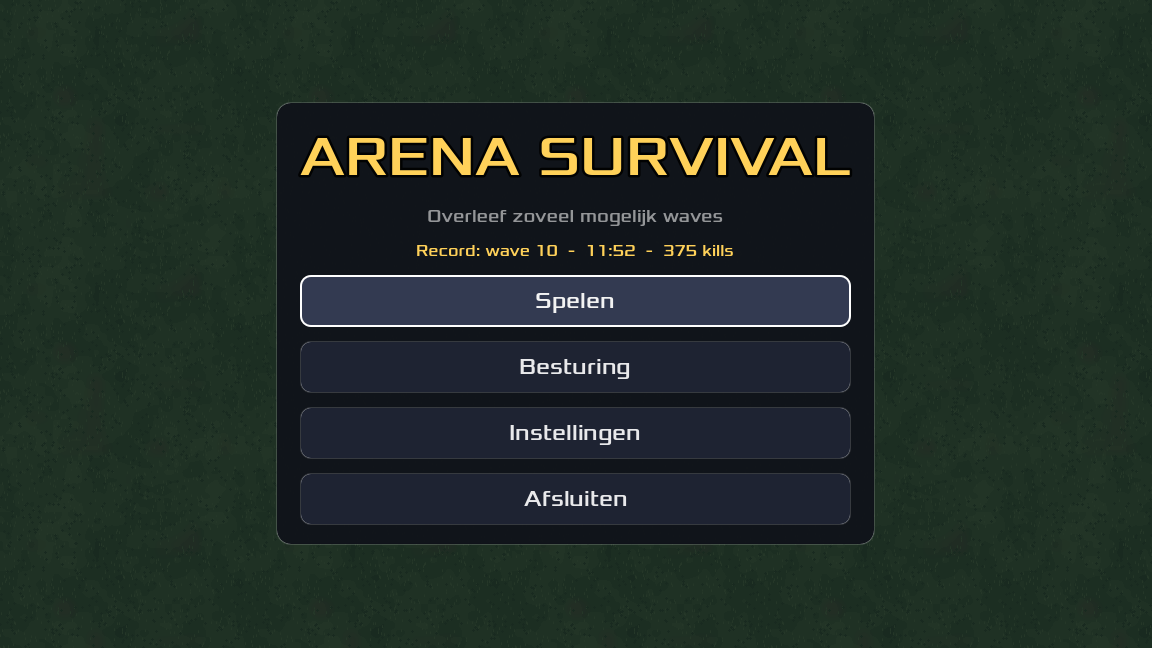
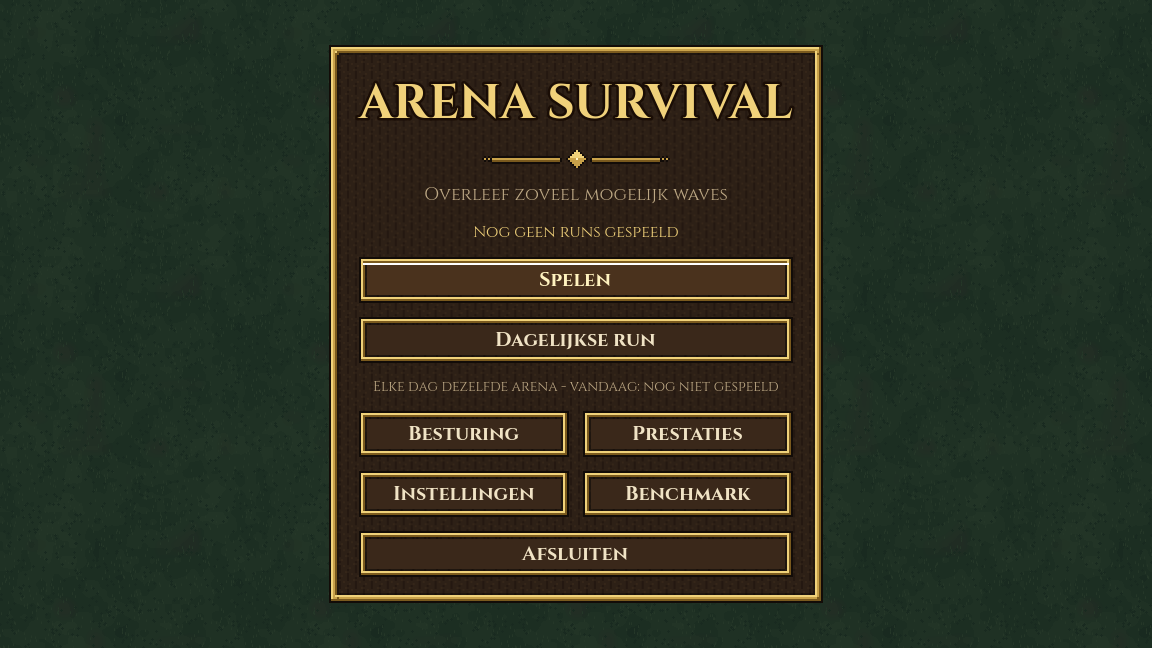
Versie 1.1

diff --git a/docs/proces/assets-herkomst.md b/docs/proces/assets-herkomst.md
@@ -1,0 +1,46 @@
+# Herkomst van assets
+
+Per bestand: waar het vandaan komt en onder welke voorwaarden het gebruikt mag worden.
+
+| Bestand(en) | Bron | Licentie of voorwaarden |
+|---|---|---|
+| `assets/art/player/held_walk.png`, `held_idle.png` | Zelf getekend met `tools/maak_sprites.py` | Eigen werk |
+| `assets/art/enemies/*.png` (negen vijanden) | Zelf getekend met `tools/maak_sprites.py` | Eigen werk |
+| `assets/art/bullet/bolt_00..29.png` | Zelf getekend met `tools/maak_sprites.py` | Eigen werk |
+| `assets/art/upgrades/*.svg` (iconen van de upgrades) | Zelf getekend met `tools/maak_upgrade_iconen.py` | Eigen werk |
+| `assets/art/floor/decoratie.png` (16 motieven: bloemen, gras, varen, paddenstoelen, stenen, stronk, boomstam, struik, riet, lelieblad) | Zelf getekend met `tools/maak_omgeving.py` | Eigen werk |
+| De grond (gras, aarde, zand rond vijvers en de stenen muur) | Tijdens het spelen opgebouwd uit ruis door `scenes/world/terrein.gd`; er is geen plaatje voor | Eigen werk |
+| `assets/art/floor/grass.png` | Zelf gegenereerd binnen dit project (nog gebruikt als achtergrond van het hoofdmenu) | Eigen werk |
+| `assets/audio/boss_battle.wav` (bossmuziek) | *Epic Boss Battle [Seamlessly Looping]* door Juhani Junkala, via [OpenGameArt](https://opengameart.org/content/boss-battle-music), gedownload op 16 oktober 2026 | **CC0** (publiek domein): vrij te gebruiken, ook in de release, zonder naamsvermelding. Ik noem de maker toch in de credits. De licentie is gecontroleerd op de pagina |
+| `assets/audio/House In a Forest Loop.ogg` | *House In a Forest Loop* © 2012 HorrorPen, via [OpenGameArt](https://opengameart.org/content/loop-house-in-a-forest) en de Godot-tutorial *Dodge the Creeps* | **CC BY 3.0**: vrij te gebruiken **met naamsvermelding** (zie de credits in de README) |
+| `assets/audio/sfx/*.wav` (effecten, ook het game-over-geluid) | Zelf gegenereerd met `tools/maak_geluiden.py` uit sinusgolven en ruis | Eigen werk |
+| `assets/fonts/Cinzel-Regular.ttf`, `Cinzel-Bold.ttf` | *Cinzel* © 2020 The Cinzel Project Authors, ontworpen door Natanael Gama, van [github.com/NDISCOVER/Cinzel](https://github.com/NDISCOVER/Cinzel) | SIL Open Font License 1.1 (zie `assets/fonts/LICENSE.txt`). Vrij te gebruiken en mee te leveren; de licentie moet erbij |
+| `assets/art/ui/*.png` (kaders, knoppen, vinkvakjes en de sierlijn) | Zelf getekend met `tools/maak_ui.py` | Eigen werk |
+| `icon.png`, `assets/art/icoon.ico` (spelicoon en exe-icoon) | Zelf getekend met `tools/maak_sprites.py` (de held op een groen vlak) | Eigen werk |
+
+## Waarom alles zelf gemaakt is
+
+In het begin zaten er gedownloade sprites van itch.io in het spel (een soldaat, vier demonen en een
+magische pijl). Die hadden voorwaarden die het doorgeven van de losse bestanden verbieden, en dat
+past slecht bij een repository die je met anderen wilt delen. Daarom zijn ze vervangen door eigen
+tekeningen, zodat er geen licenties meer te controleren zijn behalve die van de muziek en het
+lettertype. De oude bestanden staan nog in de commitgeschiedenis.
+
+## Hoe de sprites gemaakt zijn
+
+De tekeningen staan als tekstrijen in `tools/maak_sprites.py`: een letter per pixel, met een palet
+per figuur. De omtrek wordt automatisch toegevoegd en de loop-animatie bestaat uit twee standen
+die steeds wisselen met een klein sprongetje. `tools/pixelkunst.py` schrijft de PNG-bestanden zelf
+(zlib), dus er is geen extern pakket nodig. Opnieuw maken: `py tools/maak_sprites.py`. Met
+`--voorbeeld` komen er uitvergrote voorbeelden in `build/sprites/`.
+
+De vijandsprites zijn vellen van 64x16 met vier frames van 16x16; de speler is 800x100 (lopen,
+acht frames) en 600x100 (stilstaan, zes frames) van 100x100 per frame. Ze worden niet opgeknipt:
+de `.tres` of de scene wijst met `AtlasTexture`-uitsnedes naar het vel.
+
+## Opmerkingen
+
+- **Muziek:** CC BY 3.0 verplicht tot naamsvermelding (HorrorPen, licentie CC BY 3.0). Dat staat in de
+  credits van de README.
+- **Game-over-geluid:** het bestand uit de Godot-tutorial had geen vermelde licentie en is
+  vervangen door een eigen geluid.

diff --git a/README.md b/README.md
@@ -13,9 +13,9 @@ zwaarder het wordt. Wordt je geraakt en zijn je levenspunten op, dan begin je ee
 
 ## Spelen
 
-### [Download Arena Survival v1.0 voor Windows](https://github.com/NielsHoekzema07/arena-survival-release/releases/latest)
+### [Download Arena Survival v1.1 voor Windows](https://github.com/NielsHoekzema07/arena-survival-release/releases/latest)
 
-1. Klik op de link hierboven en download onder **Assets** het bestand `ArenaSurvival-v1.0-windows-x64.zip`.
+1. Klik op de link hierboven en download onder **Assets** het bestand `ArenaSurvival-v1.1-windows-x64.zip`.
 2. Pak het zip-bestand uit.
 3. Start `ArenaSurvival.exe`. Installeren is niet nodig.
 
@@ -43,15 +43,19 @@ Je wapen schiet vanzelf. Je hoeft alleen te bewegen, te dashen en slimme upgrade
 
 ## Wat zit erin
 
+- **Klassen:** aan het begin van elke run kies je de Jager, de Tank of het Glazen kanon.
 - **Waves** met oplopende moeilijkheid. Na elke wave kies je één van drie **upgrades**, en soms
-  een **uitdaging** voor een beloning.
-- **35 upgrades** in drie zeldzaamheden (gewoon, zeldzaam en episch), met kogeleffecten zoals
-  split shot, ricochet, explosies, kettingbliksem, vuur, gif en bevriezing, en risicovolle
-  duivelsdeals.
+  een **uitdaging** voor een beloning. Na een eindbaas kies je een **episch** als beloning.
+- **41 upgrades** in drie zeldzaamheden (gewoon, zeldzaam en episch), met kogeleffecten zoals
+  split shot, ricochet, explosies, kettingbliksem, vuur, gif en bevriezing, zoekende kogels,
+  en risicovolle duivelsdeals. Je gekozen upgrades staan als iconen linksonder; houd de muis
+  erboven voor uitleg.
 - **Synergieën:** bepaalde combinaties van upgrades versterken elkaar.
-- **Vijanden** die rennen, schieten, splitsen of een schild hebben, **elites** en **eindbazen**
-  elke vijfde wave.
-- **Pickups** voor herstel en tijdelijke snelheid.
+- **Vijanden** die rennen, schieten, splitsen, ontploffen, teleporteren of een schild hebben,
+  **elites** met een eigen truc en **vier eindbazen**, elke vijfde wave een.
+- **Gevaren in de arena:** bliksem en vuurpoelen die zich eerst aankondigen.
+- **Een dagelijkse run** met elke dag dezelfde arena, en **12 prestaties**.
+- Een arena met gras, aarde, vijvers, bloemen en een stenen muur, en **weer** (regen, mist, avond).
 - Een **hoofdmenu**, pauzescherm, records en instellingen, en een **benchmark** voor het
   pooling-onderzoek.
 

diff --git a/docs/proces/later-lijst.md b/docs/proces/later-lijst.md
@@ -33,9 +33,8 @@ Uit de ideeënlijst in [upgrade-ideen.md](upgrade-ideen.md) zijn alleen de aange
 | Idee | Waarom niet nu |
 |---|---|
 | **Object pooling in de game zelf** | Dit is het verdiepingsonderwerp en wordt apart uitgewerkt, met een eigen benchmark. Een vooraf gebouwde variant zou de meting beïnvloeden. |
-| **Kogelspoor** (lijn achter elke kogel) | Kost per kogel extra werk en zou de pooling-meting beïnvloeden. De inslageffecten zijn er wel. |
-| **Pathfinding rond vijvers** | Lopers lopen recht op de speler af en kunnen achter een vijver blijven hangen. Dat is nu opgevangen met een vangnet (na 20 s zonder kill worden achterblijvers verplaatst). Echte pathfinding is veel werk voor een klein spelgevoel-effect. |
-| **Eigen sprites voor de nieuwe vijanden** | De Spectral Archer, Slime Brute, Shieldbearer en de bazen hergebruiken bestaande spritesheets met een kleurtint. Eigen art kost tijd en zou licenties of eigen tekenwerk vragen. |
+| **Kogelspoor** (lijn achter elke kogel) | Eerst uitgesteld omdat het de pooling-meting kon beinvloeden. Na de metingen gebouwd: een Line2D met de laatste 8 plekken, gekleurd naar het soort kogel. |
+| **Volledige pathfinding (NavigationServer)** | Lopers komen niet meer vast te zitten achter vijvers: ze volgen een eenvoudig stroomveld om het water heen (`scenes/world/looproute.gd`). Dat is bewust simpeler dan de NavigationServer van Godot, omdat de vijvers de enige obstakels zijn. Het vangnet (na 20 s zonder kill worden achterblijvers verplaatst) blijft staan voor het geval dat. |
 | **Webversie (HTML5)** | De exportsjablonen zijn niet geïnstalleerd. In de README staat hoe je het zelf doet. |
 | **Controller-ondersteuning** | De game is gebouwd voor toetsenbord. Het PVA vraagt er niet om. |
 | **Meerdere arena's of maps** | Eén arena met willekeurig geplaatste vijvers en decoratie is genoeg voor het doel van de opdracht. |
